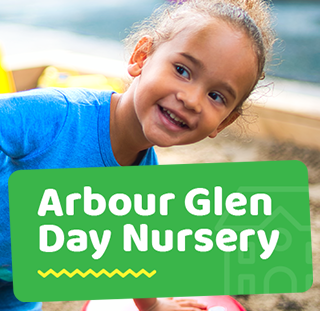
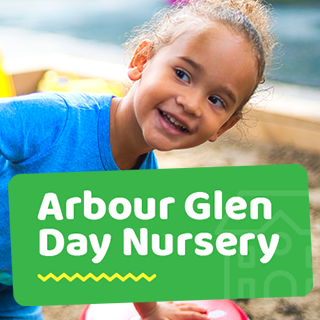
Moved all images over to picture element for fallback Couldn;t get modernizr to be reliable in this scenario

diff --git a/src/components/modules/mosaic-link.vue b/src/components/modules/mosaic-link.vue
@@ -4,8 +4,12 @@
     <a
       :href="longImg.route"
       class="mdev-work mdev-work-long"
-      :style="{ backgroundImage: longImgBkg }"
       :title="longImg.title">
+      <picture>
+        <source media="screen" :srcset="loadImage(this.longImg.src) + '.webp'" type="image/webp">
+        <source media="screen" :srcset="loadImage(this.longImg.src)" type="image/png">
+        <img :alt="longImg.title" :src="loadImage(this.longImg.src)">
+      </picture>
       <span class="u-screenreader">
         {{ longImg.a11y }}
       </span>
@@ -13,9 +17,13 @@
     <!-- Left Image -->
     <a
       :href="leftImg.route"
-      :style="{ backgroundImage: leftImgBkg }"
       class="mdev-work mdev-work-square"
       :title="leftImg.title">
+      <picture>
+        <source media="screen" :srcset="loadImage(this.leftImg.src) + '.webp'" type="image/webp">
+        <source media="screen" :srcset="loadImage(this.leftImg.src)" type="image/png">
+        <img :alt="leftImg.title" :src="loadImage(this.leftImg.src)">
+      </picture>
       <span class="u-screenreader">
         {{ leftImg.a11y }}
       </span>
@@ -23,9 +31,13 @@
     <!-- Right Image -->
     <a
       :href="rightImg.route"
-      :style="{ backgroundImage: rightImgBkg }"
       class="mdev-work mdev-work-square"
       :title="rightImg.title">
+      <picture>
+        <source media="screen" :srcset="loadImage(this.rightImg.src) + '.webp'" type="image/webp">
+        <source media="screen" :srcset="loadImage(this.rightImg.src)" type="image/png">
+        <img :alt="rightImg.title" :src="loadImage(this.rightImg.src)">
+      </picture>
       <span class="u-screenreader">
         {{ rightImg.a11y }}
       </span>
@@ -38,14 +50,6 @@ export default{
   name: 'LinkMosaic',
 
   props: [ 'longImg', 'leftImg', 'rightImg' ],
-
-  data: function(){
-    return{
-      longImgBkg: 'url(' + this.loadImage(this.longImg.src) + '.webp)',
-      leftImgBkg: 'url(' + this.loadImage(this.leftImg.src) + '.webp)',
-      rightImgBkg: 'url(' + this.loadImage(this.rightImg.src) + '.webp)'
-    };
-  }
 };
 </script>
 
@@ -83,6 +87,7 @@ export default{
     transition: all .4s;
     position: relative;
     box-shadow: 0 0 40px rgba(0, 0, 0, 0);
+    overflow: hidden;
     z-index: 1;
 
     &:hover,
@@ -91,6 +96,13 @@ export default{
       z-index: 2;
       transform: scale(1.05);
       box-shadow: 0 0 90px rgba(0, 0, 0, .9);
+    }
+
+    picture,
+    img {
+      position: absolute;
+      top: 0;
+      left: 0;
     }
   }
 

diff --git a/src/components/home/home.vue b/src/components/home/home.vue
@@ -2,7 +2,13 @@
   <div class="mdev-main-content">
     <hero-main v-view="(e) => changeNavBrand(e, '--teal-white')" :pageTitle="pageTitle" :headerDsc="headerDsc">
       <!-- Header Slot -->
-      <div class="mdev-main-hero --bkg-sizing" :style="heroStyles"></div>
+      <div class="mdev-main-hero">
+        <picture class="--home-hero">
+          <source media="screen" :srcset="loadImage('MDEV-main-hero.png') + '.webp'" type="image/webp">
+          <source media="screen" :srcset="loadImage('MDEV-main-hero.png')" type="image/png">
+          <img alt="Mdev Digital" :src="loadImage('MDEV-main-hero.png')">
+        </picture>
+      </div>
     </hero-main>
     <!-- Process -->
     <home-process v-view="(e) => changeNavBrand(e, '--teal-white')" id="mainContent"></home-process>
@@ -35,12 +41,6 @@ export default{
 
   data: function() {
     return {
-      heroStyles: {
-        backgroundColor: '#0a1315',
-        backgroundImage: 'url(' + this.loadImage('MDEV-main-hero.png') + '.webp)',
-        backgroundPosition: 'top center',
-        backgroundRepeat: 'norepeat'
-      },
       // Disables Page Title bar
       pageTitle: 'Humanize The Web',
       headerDsc: 'A picture of a skelleton watch against a dark marble texture. The words: Mdev Hybrid Digital Agency can be seen woven through the intricate lattices and gears.',

diff --git a/src/components/shared/hero-main.vue b/src/components/shared/hero-main.vue
@@ -251,5 +251,18 @@ $mask-arrow-anim-time: 3.2s;
   }
 }
 
+// Homepage override
+.--home-hero {
+  width: 100%;
+  position: absolute;
+  top: 0;
+  object-fit: cover;
+  background: $color-brand-bkg;
+
+  @media #{$phone-only} {
+    transform: scale(1.2) translateY(18px);
+  }
+}
+
 /*--------------------------------------*/
 </style>
